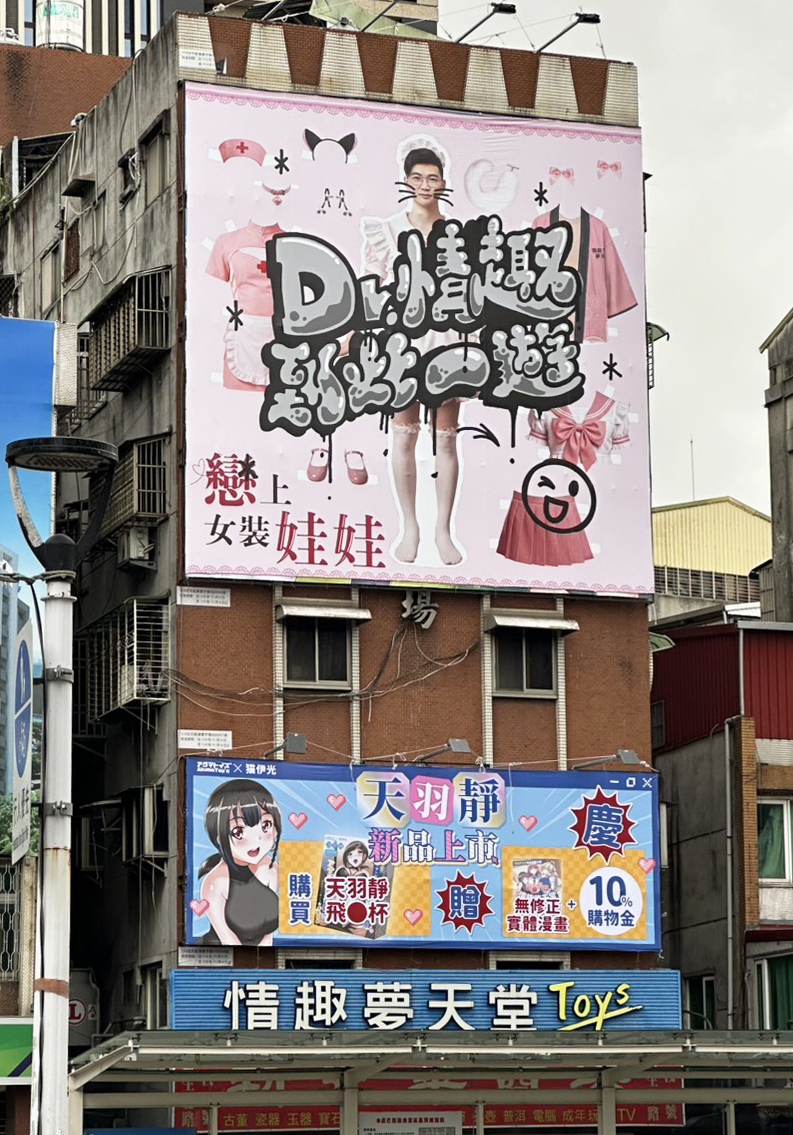
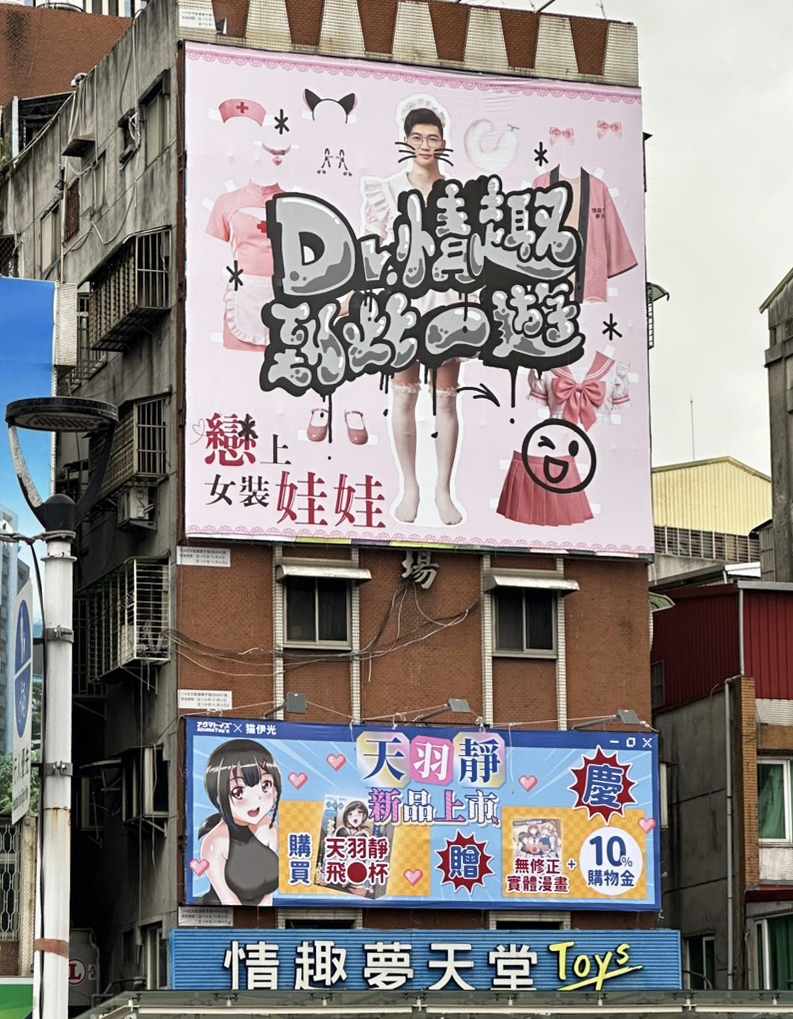
feat: add 4 event activity works and refine media layouts
- Add event-day-manager, event-exhibition, event-kol-activity, event-seminar works
- Add media images and featured-left layouts for event pages
- Update WorkCard to use object-fit: cover for event works
- Update profile.json stats and footer tagline
- Fix featured-left gap and centering in slug.astro
- Update competitor-collab-1 cover image

diff --git a/src/content/works/event-exhibition.md b/src/content/works/event-exhibition.md
@@ -1,0 +1,42 @@
+---
+title: "展會攤位規劃執行"
+client: "情趣夢天堂"
+category: ["實體活動", "活動企劃"]
+period: "2021 – Present"
+role: "展場企劃、品牌視覺發想、互動體驗規劃、選品促銷、贈品發想、轉換設計、現場執行"
+featured: true
+order: 5
+coverImage: "/images/works/event-exhibition/cover.jpg"
+summary: "動漫展、音樂祭等多場域展會攤位規劃與現場執行，打造品牌體驗空間。"
+kpis: []
+tools: ["現場動線設計", "BN 文案 SOP"]
+partners: ["動漫祭企業攤", "成人音樂祭"]
+media: []
+---
+
+## 企劃核心
+
+主導動漫展、成人音樂祭、同志遊行等攤位規劃，從展前策略到現場執行，依不同族群打造主題式攤位與互動內容。
+
+<div style="margin-top: 2em;"></div>
+
+<span style="font-size: 1.15em; font-weight: 700; color: var(--color-accent);">開拓動漫祭</span>｜主導企業攤整體企劃，負責福袋選品、互動抽獎及品牌贈品發想製作，結合問卷達到社群與會員導流，成功聚集人潮，提高品牌曝光及現場參與。
+
+<div style="display: flex; gap: 0.75rem; margin-top: 1rem;">
+  <img src="/images/works/event-exhibition/anime-expo-1.jpg" style="height: 320px; width: auto; border-radius: 0.75rem; flex-shrink: 0;" />
+  <img src="/images/works/event-exhibition/anime-expo-2.jpg" style="height: 320px; width: auto; border-radius: 0.75rem; flex-shrink: 0;" />
+</div>
+
+<div style="margin-top: 3em;"></div>
+
+<span style="font-size: 1.15em; font-weight: 700; color: var(--color-accent);">暗黑國語作業簿</span>｜結合台灣宮廟文化發想「夢天堂」主題攤位，負責規劃品牌視覺、互動體驗與贈品延伸應用，成功提高現場討論度。
+
+<div style="display: flex; gap: 0.75rem; margin-top: 1rem; align-items: flex-start;">
+  <img src="/images/works/event-exhibition/dark-homework-1.jpg" style="height: 320px; width: auto; border-radius: 0.75rem; flex-shrink: 0;" />
+  <img src="/images/works/event-exhibition/dark-2.jpg" style="height: 320px; width: auto; border-radius: 0.75rem; flex-shrink: 0;" />
+  <img src="/images/works/event-exhibition/dark-3.jpg" style="height: 320px; width: auto; border-radius: 0.75rem; flex-shrink: 0;" />
+</div>
+
+<div style="margin-top: 3em;"></div>
+
+<span style="font-size: 1.15em; font-weight: 700; color: var(--color-accent);">同志遊行</span>｜依活動族群規劃攤位展示與互動內容，透過品牌體驗與現場交流，提升品牌認同與新客接觸。

diff --git a/src/content/works/event-day-manager.md b/src/content/works/event-day-manager.md
@@ -1,0 +1,33 @@
+---
+title: "從零建立「一日店長」企劃"
+client: "情趣夢天堂"
+category: ["實體活動", "活動企劃"]
+period: "2021 – Present"
+role: "活動統籌、互動體驗規劃、選品促銷、贈品發想、轉換設計、現場執行"
+featured: true
+order: 4
+coverImage: "/images/works/event-day-manager/event-1.jpg"
+summary: "從 0 建立一日店長活動，持續穩定營運近 4 年，把線下流量轉成會員與長期回訪。"
+kpis: []
+tools: ["Notion", "現場動線設計", "贈品 IP 發想", "BN 文案 SOP"]
+partners: []
+mediaLayout: featured-left
+media:
+  - type: image
+    src: "/images/works/event-day-manager/benefit.jpg"
+    fit: contain
+  - type: image
+    src: "/images/works/event-day-manager/event-1.jpg"
+  - type: image
+    src: "/images/works/event-day-manager/event-2.jpg"
+---
+
+## 企劃核心
+
+建立線下互動型銷售活動並參與現場執行，提升當日轉換與顧客黏著度，持續<span style="color: var(--color-accent);">累積回訪客群</span>，已成為<span style="color: var(--color-accent);">每月固定舉辦</span>的長期活動。
+
+<div style="margin-top: 1.8em;"></div>
+
+- <span style="color: var(--color-accent);">負責從０開始建立</span>，主導流程規劃、人選開發洽談、遊戲互動與消費轉換設計
+- 發展為每月固定的品牌活動，促進門市當日業績轉換，至今已<span style="color: var(--color-accent);">持續 4 年</span>
+- 透過活動回顧貼文延續話題，帶動社群流量及一日店長活動曝光度

diff --git a/src/content/works/event-seminar.md b/src/content/works/event-seminar.md
@@ -1,0 +1,32 @@
+---
+title: "主題互動講座"
+client: "情趣夢天堂"
+category: ["實體活動", "活動企劃"]
+period: "2021 – Present"
+role: "主題策劃、合作開發洽談、互動體驗規劃、轉換設計、現場執行"
+featured: true
+order: 7
+coverImage: "/images/works/event-seminar/lecture.jpg"
+summary: "BDSM 講座等主題互動活動規劃與執行，深化品牌專業形象與社群連結。"
+kpis: []
+tools: ["現場動線設計"]
+partners: ["BDSM 專業團體"]
+mediaColumns: 3
+media:
+  - type: image
+    src: "/images/works/event-seminar/bdsm-bn.jpg"
+  - type: image
+    src: "/images/works/event-seminar/lecture.jpg"
+  - type: image
+    src: "/images/works/event-seminar/pride-event.jpg"
+---
+
+## 企劃核心
+
+結合業界專業團體合作規劃特殊主題相關講座及體驗活動，藉由互動式活動與產品情境做連結，以曝光門市新樓層，提高品牌認知同時吸引新客群。
+
+<div style="margin-top: 1.8em;"></div>
+
+- <span style="color: var(--color-accent);">規劃 BDSM 體驗、情慾開發講座、繩縛表演及同志向一日店長等互動型活動</span>，以多元主題內容擴展新客群。
+- 結合當日促銷、互動福利、限定贈品與抽獎機制，<span style="color: var(--color-accent);">提升現場參與感與消費轉換</span>。
+- 與合作團體、品牌與網紅於社群聯動曝光，放大活動聲量並強化新樓層的主題定位。

diff --git a/src/content/works/event-kol-activity.md b/src/content/works/event-kol-activity.md
@@ -1,0 +1,33 @@
+---
+title: "KOL話題活動操作"
+client: "情趣夢天堂"
+category: ["實體活動", "話題行銷"]
+period: "2021 – Present"
+role: "活動統籌、KOL洽談、社群話題操作、互動體驗規劃、現場執行"
+featured: true
+order: 6
+coverImage: "/images/works/event-marketing/tonyq-event.jpg"
+summary: "結合知名網紅「統神」時下話題規劃實體活動，引發廣大回響，帶動排隊人潮、現場爆滿與媒體報導曝光。"
+kpis: []
+tools: ["Notion"]
+partners: ["統神"]
+mediaLayout: featured-left
+media:
+  - type: image
+    src: "/images/works/event-kol-activity/tonyq-post.jpg"
+    fit: contain
+  - type: image
+    src: "/images/works/event-kol-activity/tonyq-event-1.jpg"
+  - type: image
+    src: "/images/works/event-kol-activity/tonyq-event-2.png"
+---
+
+## 代表案例
+
+結合知名網紅「統神」時下話題規劃實體活動，引發廣大回響，並成功帶動排隊人潮、現場爆滿與媒體報導曝光，後續延伸社群討論與品牌話題擴散。
+
+## 成果回顧
+
+- 多家主流媒體主動報導<br>[TVBS新聞網｜慶祝Toyz販毒被捕！統神爽發「1百份雞排」](https://news.tvbs.com.tw/entertainment/1602556)
+
+- 網紅頻道影片（原頻道遭 Youtube 刪除）<br>[阿航在情趣夢天堂快閃發雞排，什麼人都來了，現場回應威力真的有給三個錦囊嗎？](https://www.facebook.com/watch/?v=446792346821421)
